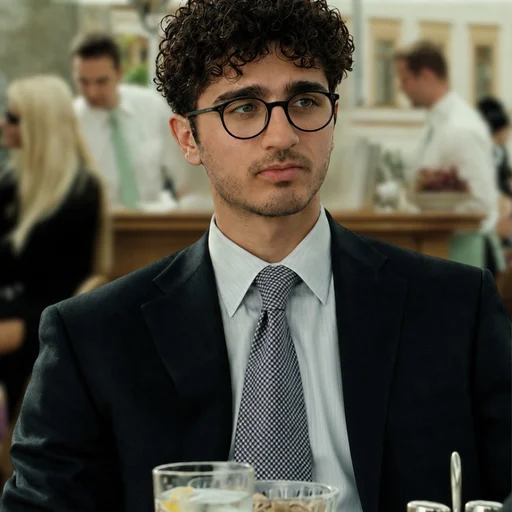
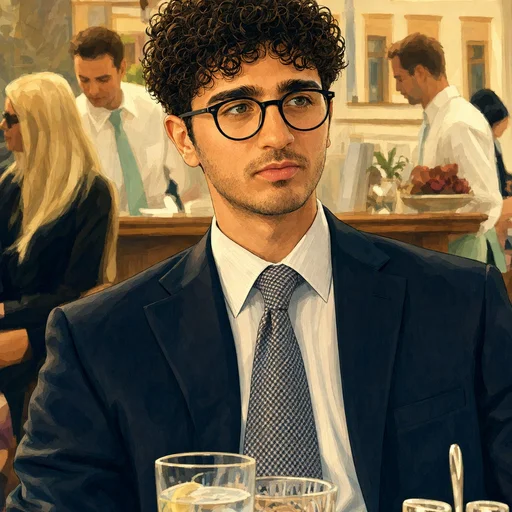
Link footer branding to EtvaVida and refresh profile photo.
Make POWERED BY ETVAVIDA open the studio site and update the profile avatar image.

diff --git a/src/components/Footer.tsx b/src/components/Footer.tsx
@@ -1,10 +1,12 @@
 "use client";
 
+import { SafeLink } from "@/components/SafeLink";
 import { siteConfig } from "@/data/site";
 import { usePrefersReducedMotion } from "@/hooks/usePrefersReducedMotion";
 
 export function Footer() {
   const reducedMotion = usePrefersReducedMotion();
+  const etvaVidaUrl = siteConfig.links.ETVAVIDA_URL;
 
   function backToTop() {
     window.scrollTo({
@@ -16,18 +18,22 @@ export function Footer() {
   return (
     <footer className="mt-5 border-t border-line px-1 pt-6 pb-7 sm:pt-8 sm:pb-9">
       <div className="flex flex-col items-center gap-5">
-        <div className="text-center">
-          <p className="brand text-[10px] tracking-[0.3em] text-muted uppercase">
+        <SafeLink
+          href={etvaVidaUrl}
+          aria-label={`${siteConfig.ui.poweredBy} EtvaVida`}
+          className="group block rounded-xl text-center transition focus-visible:outline-2 focus-visible:outline-offset-4 focus-visible:outline-foreground"
+        >
+          <p className="brand text-[10px] tracking-[0.3em] text-muted uppercase transition group-hover:text-foreground/70">
             {siteConfig.ui.poweredBy}
           </p>
-          <p className="brand mt-1.5 text-[1.5rem] leading-none font-bold tracking-[0.2em] text-foreground sm:text-[1.75rem]">
+          <p className="brand mt-1.5 text-[1.5rem] leading-none font-bold tracking-[0.2em] text-foreground transition group-hover:text-foreground/85 sm:text-[1.75rem]">
             ETVAVIDA
           </p>
           <span
             aria-hidden="true"
-            className="mx-auto mt-2.5 block h-px w-16 bg-gradient-to-r from-transparent via-foreground/35 to-transparent"
+            className="mx-auto mt-2.5 block h-px w-16 bg-gradient-to-r from-transparent via-foreground/35 to-transparent transition group-hover:via-foreground/55"
           />
-        </div>
+        </SafeLink>
 
         <div className="flex w-full flex-col items-center gap-3 border-t border-line pt-5 sm:flex-row sm:justify-between">
           <p className="text-[12px] text-foreground/70">
